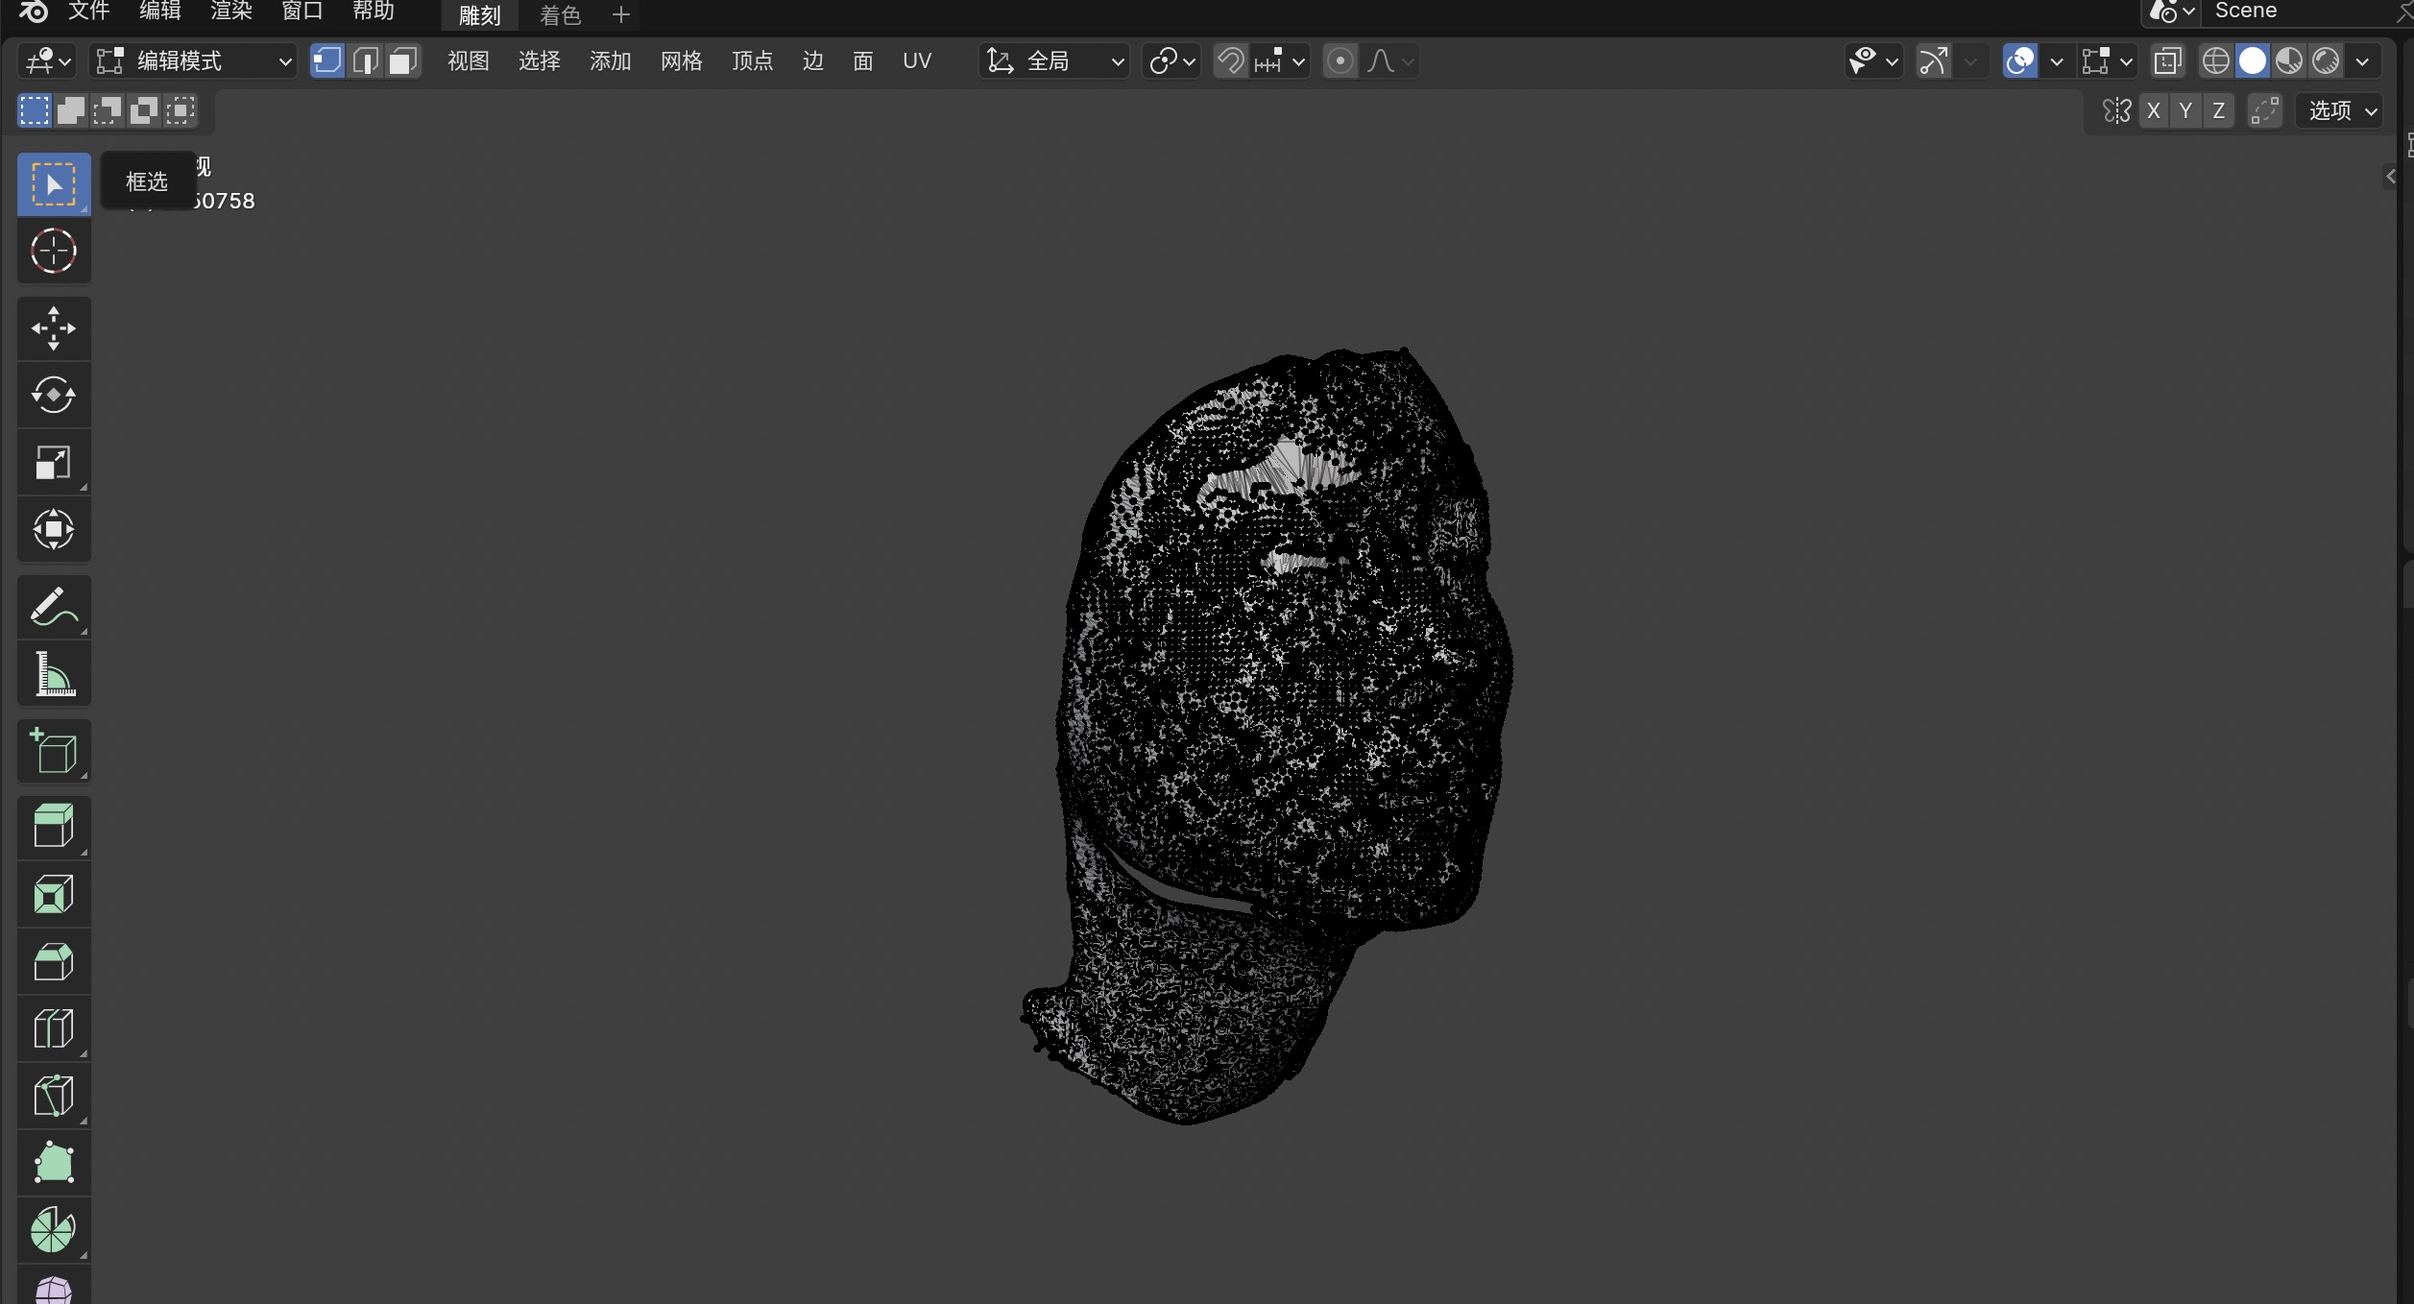
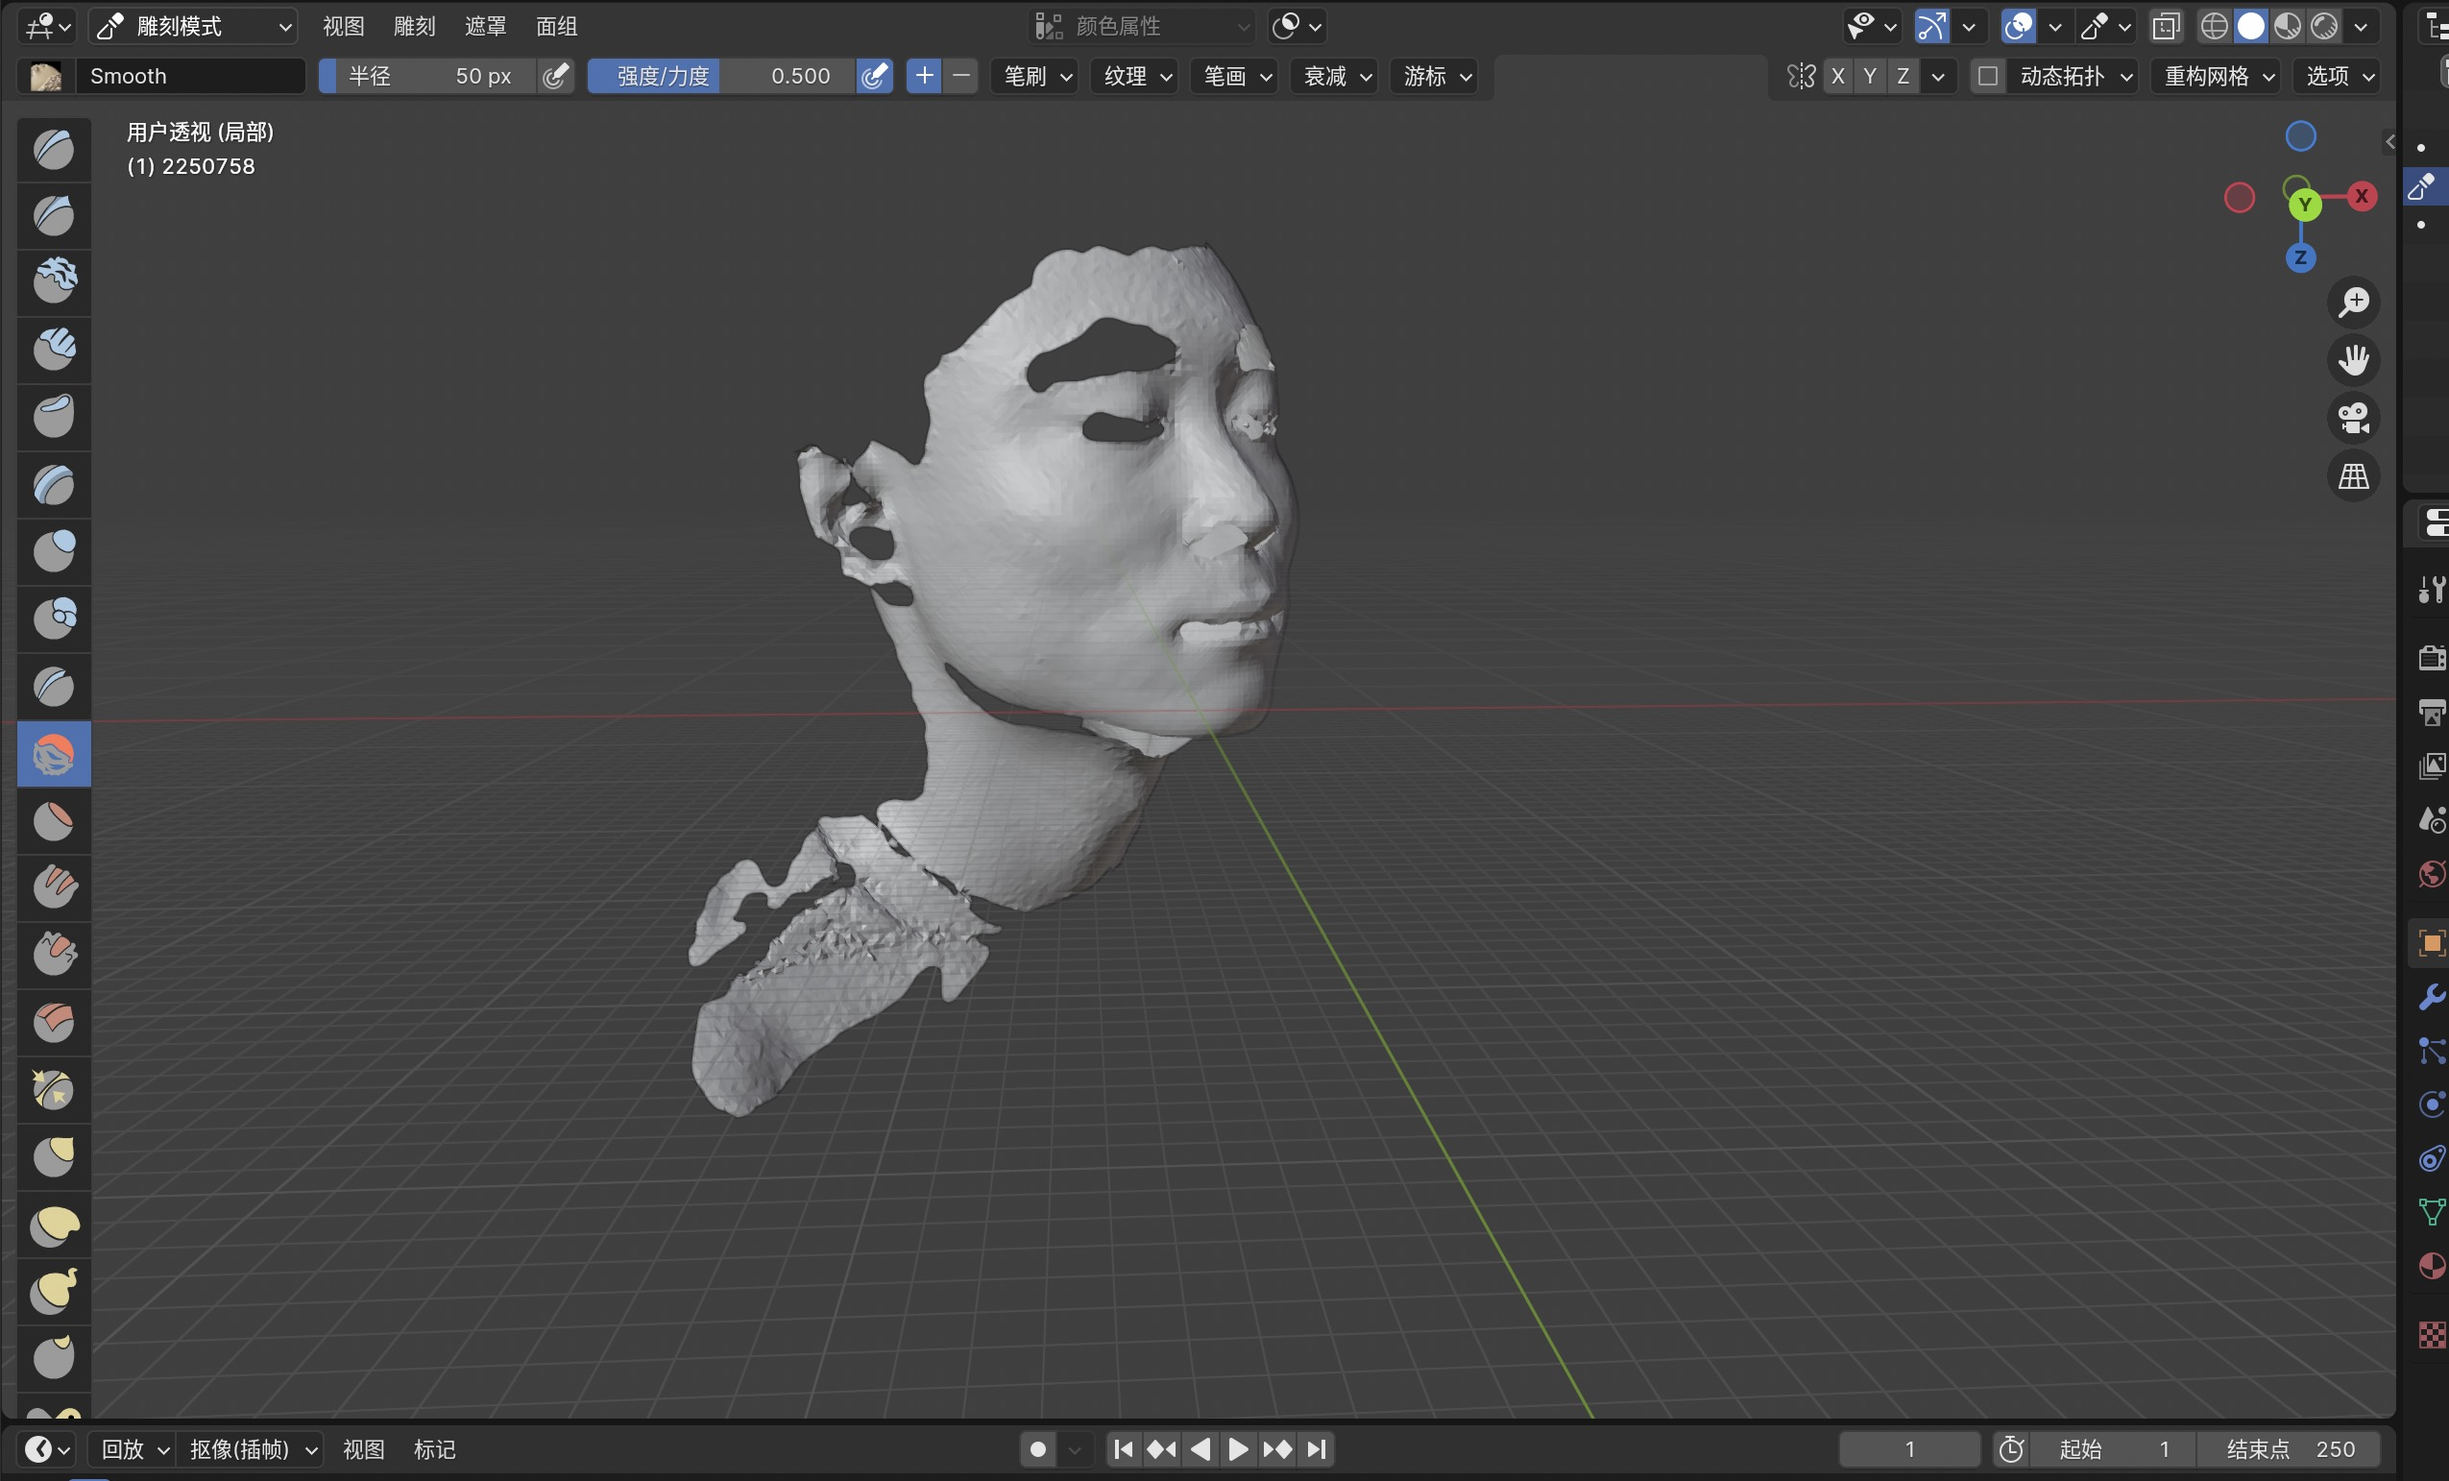
Update report

Changed region(s): [[0.0, 0.0, 1.0, 1.0], [0.2792, 0.1546, 0.6516, 0.866]]

diff --git a/Assignment_3/ExperimentalReport.md b/Assignment_3/ExperimentalReport.md
@@ -1,0 +1,117 @@
+# Experimental Report
+
+**Name**: Jishen Lin
+
+**Student ID**: 2250758
+
+## Experiment Name
+
+3D Model Scanning and Data Processing
+
+## Experiment Objectives
+
+1. Understand the representation forms and storage formats of 3D model data;
+2. Master the usage of the handheld 3D surface scanning system, Creaform Go Scan 3D, including both hardware and software;
+3. Learn the operation of common geometric editing software (e.g., GeoMagic Studio) and be able to perform basic editing on raw 3D scan data.
+
+## Experiment Equipment
+
+* **Hardware**: Creaform Go Scan 3D 3D Scanner
+* **Software**: Creaform Go Scan 3D accompanying scanning software, **Blender**
+
+## Experiment Content
+
+Students will pair up and use the Creaform Go Scan 3D scanning device to capture an initial facial model of their partner. After obtaining the initial model, students will need to refine their own facial model to achieve a more detailed and polished result.
+
+### 3D Scanner Data Acquisition Process
+
+The acquisition process is as follows. Please refer to the experimental guide for operation:
+
+#### Creaform Go Scan 3D 3D Scanner
+
+This 3D scanning device is based on structured light technology and is a portable scanning device. The device is connected to a computer via a USB interface to complete data acquisition. Its appearance is shown in the figure below.
+
+![](assets/3DScanner.png)
+
+Before starting the scan, check the following:
+
+* The scanner’s USB cable is connected to the computer;
+* The scanner’s power cable is properly connected;
+* The accompanying scanning software, VXelements, is open, as shown in the figure below;
+* If the subject being scanned is a person, ensure their eyes are tightly closed, as the white light emitted by the scanner is bright and potentially harsh.
+
+![](assets/VXelements.png)
+
+During the scanning process, pay close attention to the color changes of the scanner’s indicator light:
+
+* **Green**: Indicates normal operation;
+* **Front red light on**: Indicates the operating distance is too close;
+* **Rear red light on**: Indicates the operating distance is too far.
+Adjust the operating distance based on the indicator light to ensure scanning quality.
+
+#### VXelements 3D Scanning Software
+
+This software is the accompanying data acquisition software for the Go Scan 3D scanner. It is simple to use, and its default settings are suitable for most scenarios.
+
+* Scanning starts and ends by clicking the "Scan" button.
+* Once the scan is complete, save the scanned data promptly. The data format can be selected based on the requirements of the subsequent geometric processing software.
+
+After the data scanning is completed, it needs to be saved promptly.
+
+### Geometric Data Post-Processing
+
+The raw geometric data obtained from the Go Scan 3D scanner inevitably contains noise, holes, and other imperfections. To achieve a more desirable result, further refinement is required using Blender, a geometric data processing software. Below are the detailed steps:
+
+#### Import the Original OBJ File
+
+1. Open Blender. By default, the scene contains a cube object, which can be deleted by pressing `X`.
+2. Click on the menu bar **File** → **Import** → **Wavefront (.obj)**, and select the original OBJ file exported from the Go Scan 3D scanner.
+3. After importing, the model will appear in the 3D view. You can zoom in/out using the mouse wheel and rotate the view by holding the middle mouse button to inspect the model.
+
+![](assets/Figure1.jpg)
+
+#### Enter Edit Mode for Repair
+
+1. Select the model and press `Tab` to enter **Edit Mode**.
+2. In the left toolbar, choose the **Select Tool** to select areas with holes or noise on the model.
+3. Press `M` to open the **Merge Menu** and select **By Distance** to remove duplicate vertices.
+4. For larger holes, use the **Face Fill Tool**: select the vertices around the hole and press `F` to fill the face.
+5. For smaller noise, use the **Smooth Tool**: select the area to be smoothed, press `Ctrl + F` to open the face menu, and choose **Smooth Vertices**.
+
+![](assets/Figure2.jpg)
+
+#### Use Sculpt Mode for Smoothing
+
+1. Press `Tab` to return to **Object Mode**.
+2. Switch to **Sculpt Mode** in the right toolbar.
+3. Select the **Smooth Brush**, adjust the brush size (press `F`) and strength, and apply it to the model’s surface to smooth out uneven areas.
+4. For finer adjustments, use the **Elastic Deform Brush** or **Pinch Brush** to refine the model details.
+
+#### Hide Unnecessary Parts
+
+1. Return to **Edit Mode** and select parts of the model that are not needed (e.g., hair, background).
+2. Press `H` to hide the selected parts or press `X` to delete them.
+3. To restore hidden parts, press `Alt + H`.
+
+![](assets/Figure3.jpg)
+
+#### Check the Final Result
+
+1. In **Object Mode**, press `Z` to switch between view modes and inspect the model’s wireframe and surface.
+2. Ensure the model’s surface is smooth, holes are repaired, noise is removed, and the overall result meets expectations.
+
+![](assets/Result.jpg)
+
+#### Export the STL File
+
+The STL (StereoLithography) file format is widely used in the fields of 3D printing and computer-aided design (CAD). It is employed to represent the surface geometry of three-dimensional models and is one of the most commonly used file formats in 3D printing.
+
+1. Click on the menu bar **File** → **Export** → **STL (.stl)**.
+2. In the dialog box, choose the save path and name the file, then click **Export STL**.
+3. The exported STL file can be used for 3D printing or further processing.
+
+Through the above steps, we used Blender to repair and refine the raw facial model obtained from the Go Scan 3D scanner. This included importing the OBJ file, repairing in Edit Mode, smoothing in Sculpt Mode, hiding unnecessary parts, and exporting the STL file.
+
+## Experiment Summary
+
+Through this experiment, I successfully acquired an initial facial model using the Creaform Go Scan 3D scanner and refined the model using Blender software. During the experiment, I mastered the basic operational workflow of the 3D scanner and learned how to process geometric data through edit mode and sculpt mode, ultimately exporting a high-quality STL file. The final 3D facial model obtained has complete and clear facial features, with no significant holes, flat areas, or other defects. This experiment not only deepened my understanding of 3D model data processing but also laid a solid foundation for subsequent applications.
